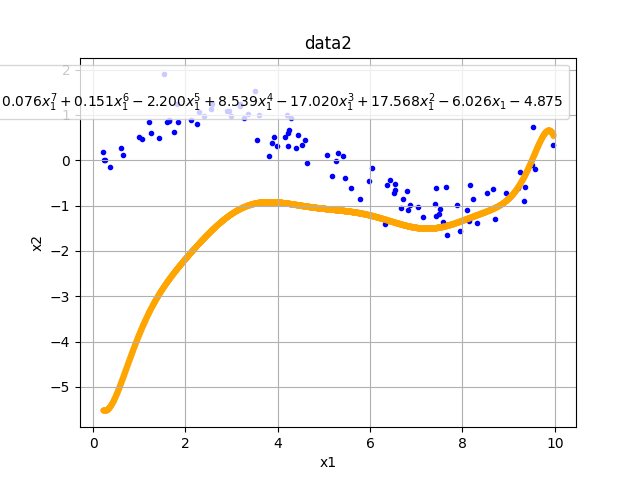
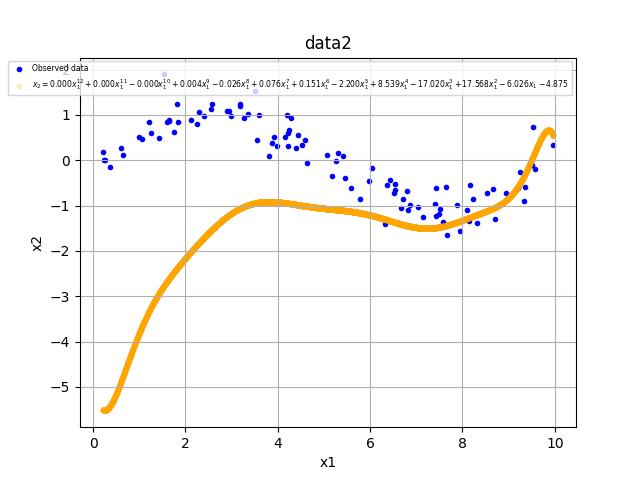
change fontsize

Changed region(s): [[0.0, 0.125, 0.9062, 0.25]]

diff --git a/ex3/h_miyaji/main.py b/ex3/h_miyaji/main.py
@@ -131,7 +131,7 @@ def plot_reg_model(
             marker=".",
         )
 
-    ax.legend()
+    ax.legend(fontsize=5.5)
     # plt.savefig("figs\\result1.png")
     plt.show()
     return ax
@@ -215,9 +215,8 @@ def calc_reg_model(
 
         # 回帰式(str)作成
         xlabel = f"{w[1][0]:+3.3f}x_1 {w[0][0]:+3.3f}"
-        if N != 1:
-            for i in range(N - 1):
-                xlabel = f"{w[i + 2][0]:+3.3f}x_1^{i + 2} {xlabel}"
+        for i in range(N - 1):
+            xlabel = f"{w[i + 2][0]:+3.3f}x_1^{{{i + 2}}}  {xlabel}"
         reg_formula = f"$x_2 = {xlabel[1:]}$"
 
     elif dim == 3:  # x-y-z
@@ -234,11 +233,10 @@ def calc_reg_model(
 
         # 回帰式(str)作成
         xlabel = f"{w[1][0]:+3.3f}x_1 {w[2][0]:+3.3f}x_2 {w[0][0]:+3.3f}"
-        if N != 1:
-            for i in range(N - 1):
-                xlabel = "{:+3.3f}x_1^{} {:+3.3f}x_2^{} {}".format(
-                    w[(2 * i) + 3][0], i + 2, w[(2 * i) + 4][0], i + 2, xlabel
-                )
+        for i in range(N - 1):
+            xlabel = "{:+3.3f}x_1^{{{}}} {:+3.3f}x_2^{{{}}} {}".format(
+                w[(2 * i) + 3][0], i + 2, w[(2 * i) + 4][0], i + 2, xlabel
+            )
         reg_formula = f"$x_3 = {xlabel[1:]}$"
 
     return model_dataset, reg_formula
